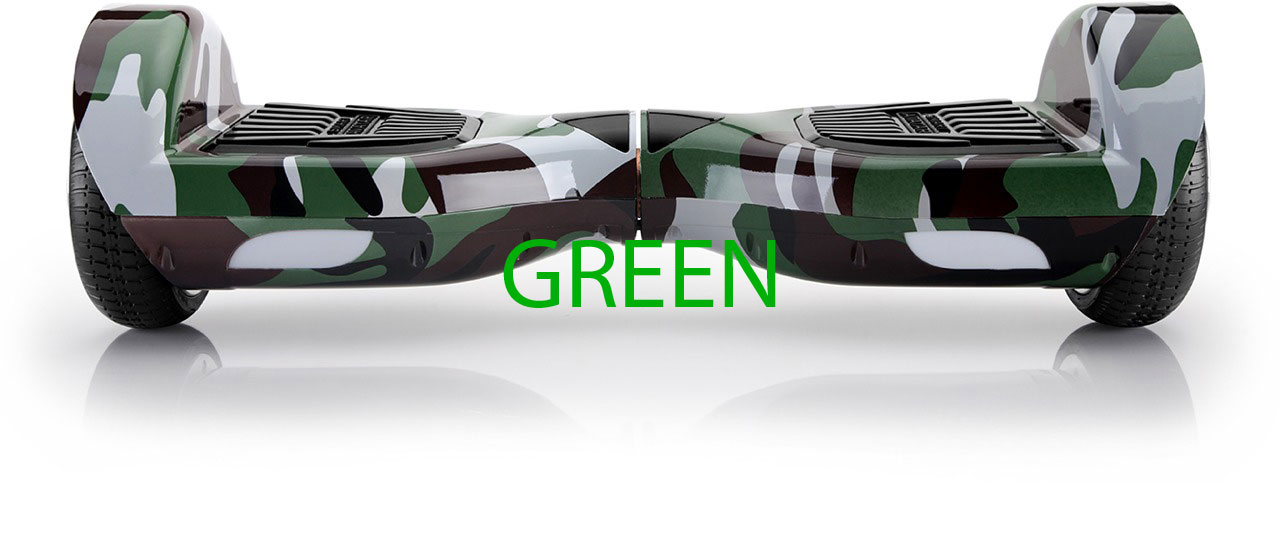
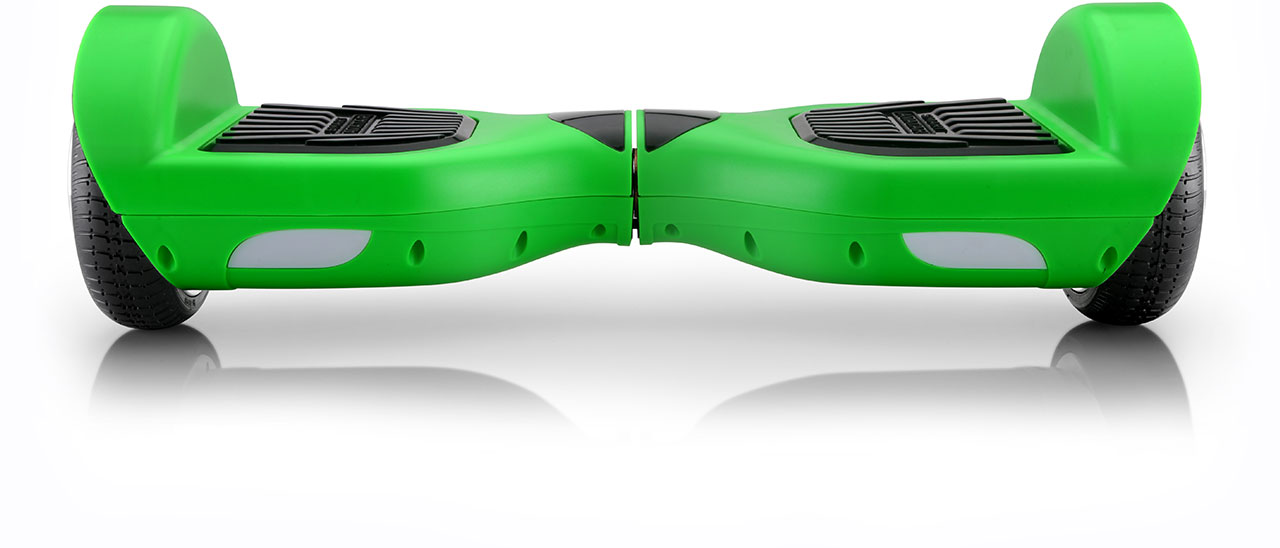
Смена изображений
Все работает

diff --git a/avatar-eco.html b/avatar-eco.html
@@ -1525,7 +1525,7 @@
             </ul>
           </div>
         </div>
-        <div class="full-width-block type-3">
+        <div class="full-width-block will-change-image type-3">
           <div style="background-image: url(img/content/avatar_02__hucky.jpg)" class="full-width-block__inner">
             <div class="full-width-block__container container">
               <div class="full-width-block__text_1">
@@ -1538,7 +1538,7 @@
             </div>
           </div>
         </div>
-        <div class="full-width-block type-4">
+        <div class="full-width-block will-change-image type-4">
           <div style="background-image: url(img/content/avatar_03__hucky.jpg)" class="full-width-block__inner">
             <div class="full-width-block__container container">
               <div class="full-width-block__text">
@@ -1547,7 +1547,7 @@
             </div>
           </div>
         </div>
-        <div class="standart-block type-1">
+        <div class="standart-block will-change-image type-1">
           <div class="container">
             <div class="standart-block__title">
               <h4>Целостность и надежность</h4><span>Корпус гироскутера изготовлен из высококачественного пластика, которой не потеряет свой великолепной внешний вид со временем.</span>
@@ -1572,7 +1572,7 @@
             </div>
           </div>
         </div>
-        <div class="full-width-block grey-gradient type-6">
+        <div class="full-width-block will-change-image grey-gradient type-6">
           <div style="background-image: url(img/content/avatar_04__hucky.jpg)" class="full-width-block__inner">
             <div class="full-width-block__container container">
               <div class="full-width-block__text">
@@ -1581,7 +1581,7 @@
             </div>
           </div>
         </div>
-        <div class="full-width-block type-7">
+        <div class="full-width-block will-change-image type-7">
           <div style="background-image: url(img/content/avatar_02__hucky.jpg)" class="full-width-block__inner">
             <div class="full-width-block__container container">
               <div class="full-width-block__text">
@@ -1590,7 +1590,7 @@
             </div>
           </div>
         </div>
-        <div class="full-width-block type-8">
+        <div class="full-width-block will-change-image type-8">
           <div style="background-image: url(img/content/avatar_06__hucky.jpg)" class="full-width-block__inner">
             <div class="full-width-block__container container">
               <div class="full-width-block__text">

diff --git a/js/main.js b/js/main.js
@@ -265,7 +265,7 @@ $(document).ready(function() {
            var is_safari = navigator.userAgent.indexOf("Safari") > -1;
            if ((is_chrome)&&(is_safari)) {is_safari=false;}
 
-					 if($th.hasClass('type-3') || $th.hasClass('type-4') || $th.hasClass('type-6') || $th.hasClass('type-7') || $th.hasClass('type-8')) {
+           if($th.hasClass('will-change-image')) {
 					 if (is_safari) {
 						      url = $th.find('.full-width-block__inner').css('background-image').match(/(\(.+\))/i)[0].replace('(', '').replace(')', '');
 					 } else {
@@ -285,7 +285,26 @@ $(document).ready(function() {
 							})
 						}
 					}
-				})
+				});
+				$('.standart-block').each(function(){
+                var $th = $(this),
+                        match = '',
+                        url = '',
+                        replace_str = '',
+                        file_type = '';
+               if($th.hasClass('will-change-image')) {
+                        img = $th.find('.standart-block__image img')
+                        url = img.attr('src');
+                        file_type = url.match(/(\.\w+$)/i)[0];
+                        match = url.match(/(__.+$)/i);
+                        replace_str = '__' + $this.attr('data-color-id') + file_type;
+                        if(match == null) {
+                                 img.attr('src', url.replace(file_type, replace_str));
+               } else {
+                        img.attr('src', url.replace(match[0], replace_str));
+               }
+           }
+       });
 			}
 			e.preventDefault();
 		});
